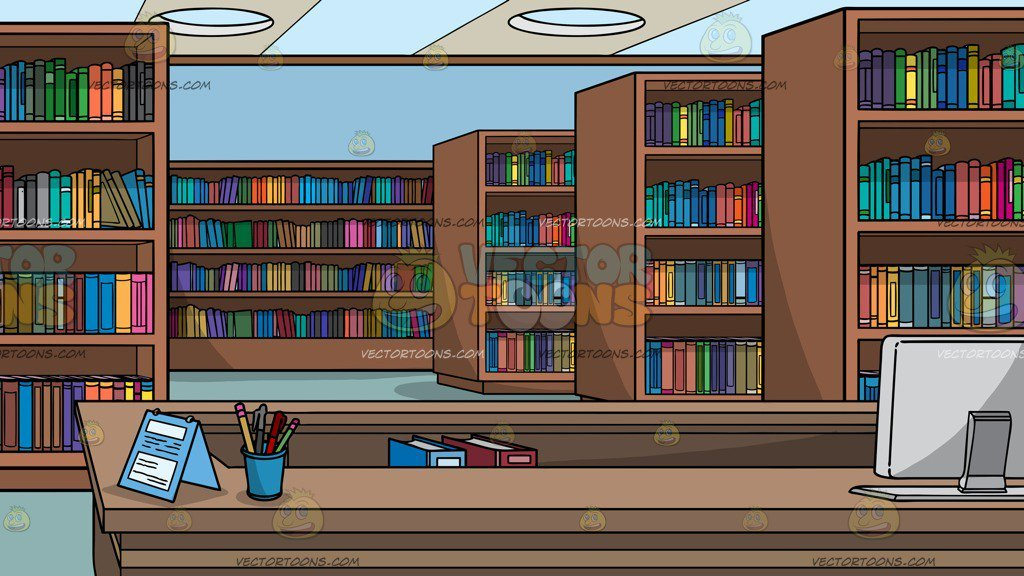
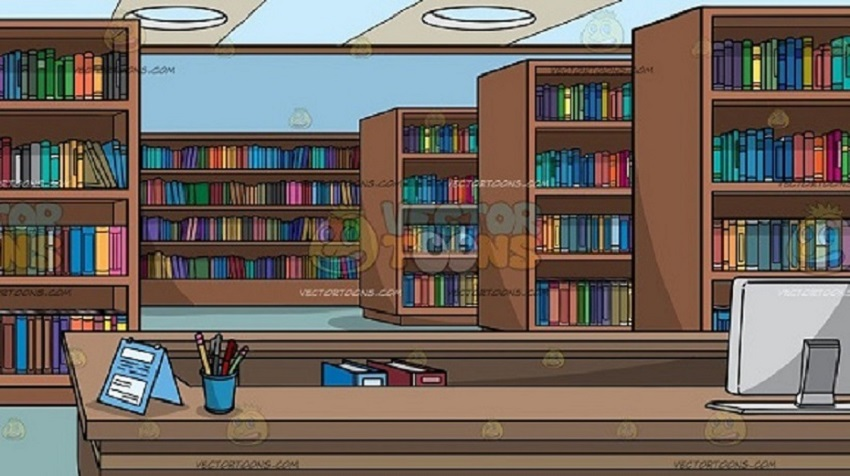
add new image, background and and text for main class

diff --git a/src/JavFX/Main.java b/src/JavFX/Main.java
@@ -91,16 +91,6 @@ public class Main extends Application {
                 exception.printStackTrace();
             }
         });
-        Button exit = new Button("Exit");
-        exit.setTranslateX(1100);
-        exit.setTranslateY(650);
-
-        exit.setOnAction(actionEvent -> {
-            System.exit(0);
-        });
-       setStyle(exit);
-        exit.setPrefSize(200, 80);
-
 
 
         Menu menu1 = new Menu("user");
@@ -284,6 +274,10 @@ menuBar.setStyle(" -fx-spacing: 47;");
 menuBar.prefHeight(32);
 /*.menu-item {  }
 .menu { -fx-padding: 1 5 1 5; }*/
+        Font font = new Font(36);
+        Font font1 = new Font(47);
+
+
         Button user = new Button("User");
         Button librarian = new Button("Librarian");
         Button system = new Button("System");
@@ -291,8 +285,7 @@ menuBar.prefHeight(32);
         user.setPrefSize(410,230);
         librarian.setPrefSize(410,230);
         system.setPrefSize(410,230);
-        Font font = new Font(36);
-        Font font1 = new Font(47);
+
         user.setFont(font);
         librarian.setFont(font);
         system.setFont(font);
@@ -347,25 +340,35 @@ menuBar.prefHeight(32);
                 exception.printStackTrace();
             }
         });
+        Button exit = new Button("Exit");
+        exit.setTranslateX(1100);
+        exit.setTranslateY(650);
+        exit.setOnAction(actionEvent -> {
+            System.exit(0);
+        });
+        setStyle(exit);
+        exit.setPrefSize(200, 80);
+        exit.setFont(font);
         Text text = new Text("Library Recommendation Tool ");
-        text.setTranslateX(500);
-        text.setTranslateY(100);
+        text.setTranslateX(575);
+        text.setTranslateY(500);
         text.setFont(font1);
-        text.setFill(Color.BLACK);
+        text.setFill(Color.WHITE);
         text.setTextAlignment(TextAlignment.RIGHT);
         text.setStyle("-fx-font-weight: bold;");
-        setStyle1(welcome);
+    /*    setStyle1(welcome);
         setStyle1(exit);
-
-        //     Image background = new Image("Images"+ File.separator +"libraryBackground6.jpg");
-        Canvas canvas = new Canvas(1400, 770);
-
+*/
+             Image background = new Image("Images"+ File.separator +"libraryBackground12.jpg");
+        Canvas canvas = new Canvas(850, 475);
+        canvas.setTranslateX(470);
+        canvas.setTranslateY(35);
         Group root = new Group();
-        root.getChildren().addAll(canvas,menuBar,welcome,exit,
+        root.getChildren().addAll(canvas,menuBar/*,welcome*/,exit,
                 text,user,librarian,system);
 
         GraphicsContext gc = canvas.getGraphicsContext2D();
-     //  gc.drawImage(background,0,0);
+       gc.drawImage(background,0,0);
         Scene scene = new Scene(root,1400,770);
         menuBar.prefWidthProperty().bind(scene.widthProperty());
         stage.setScene(scene);
